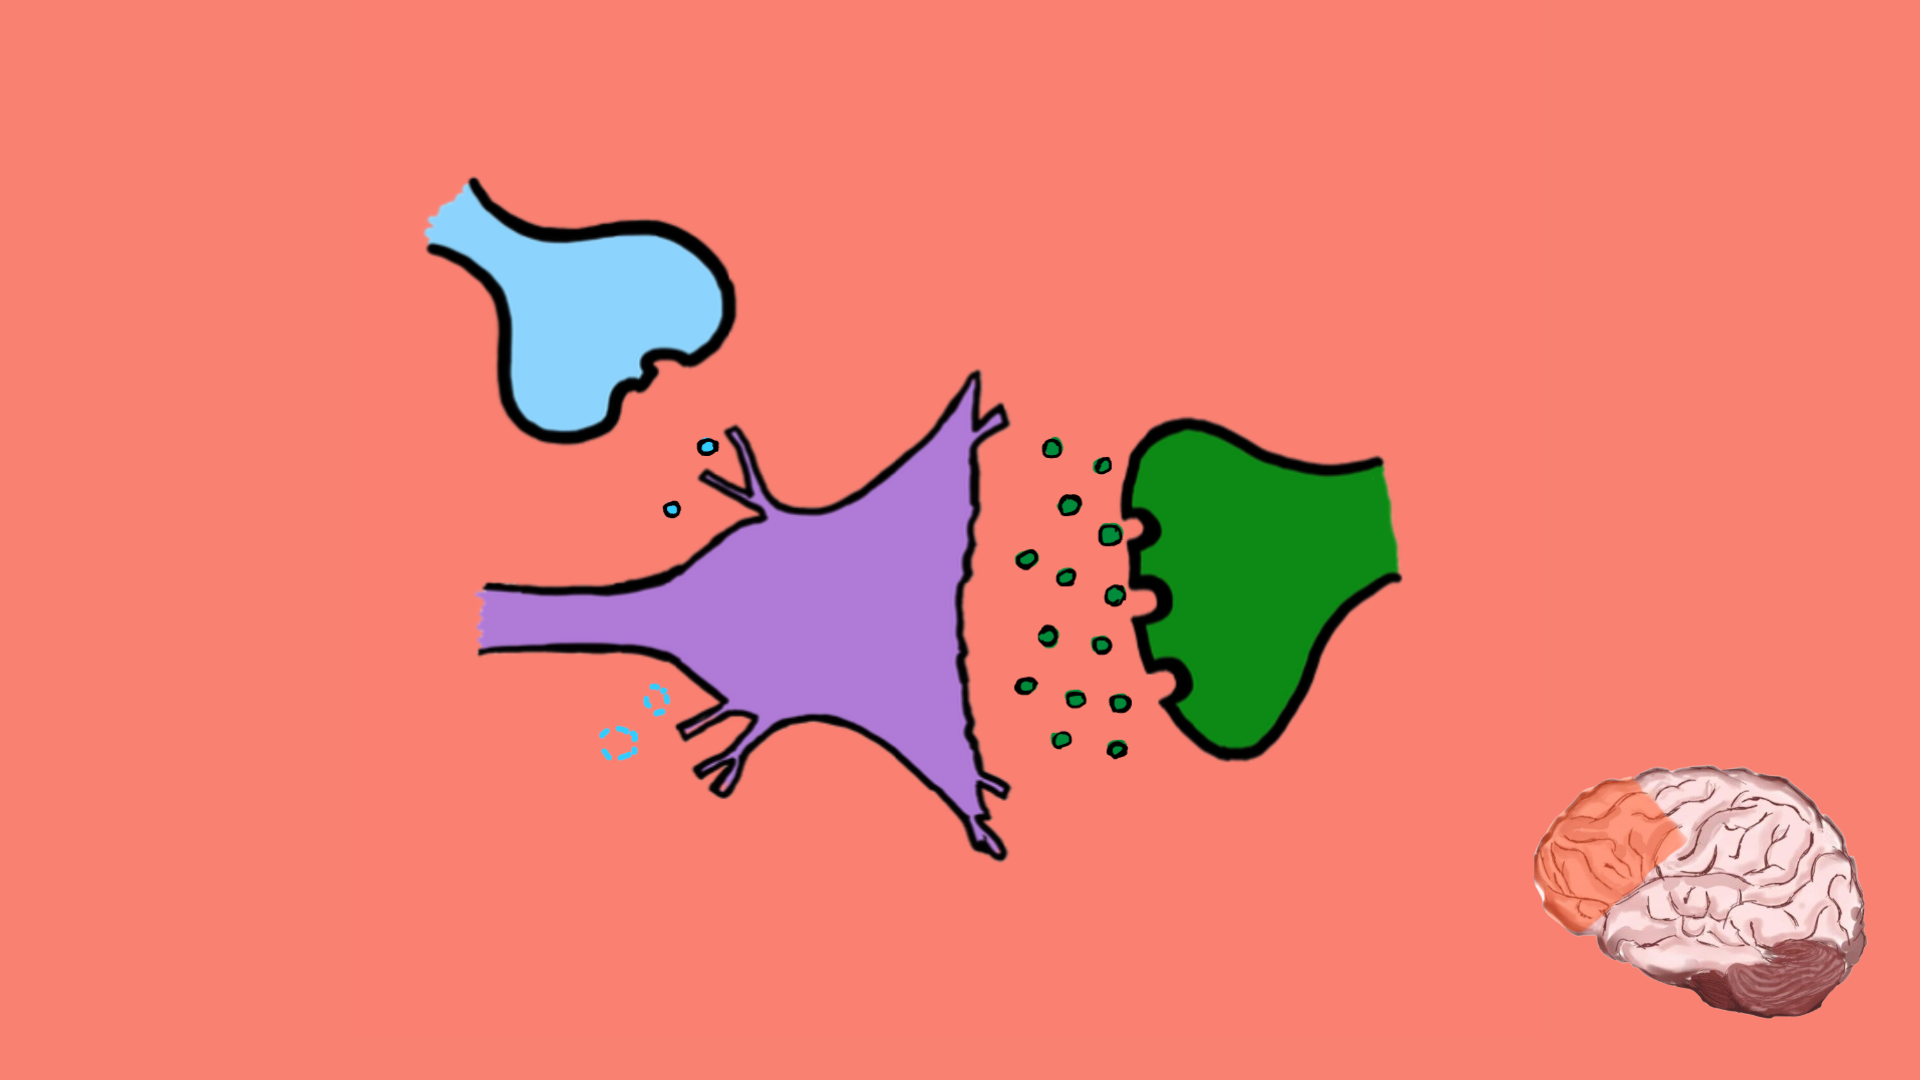
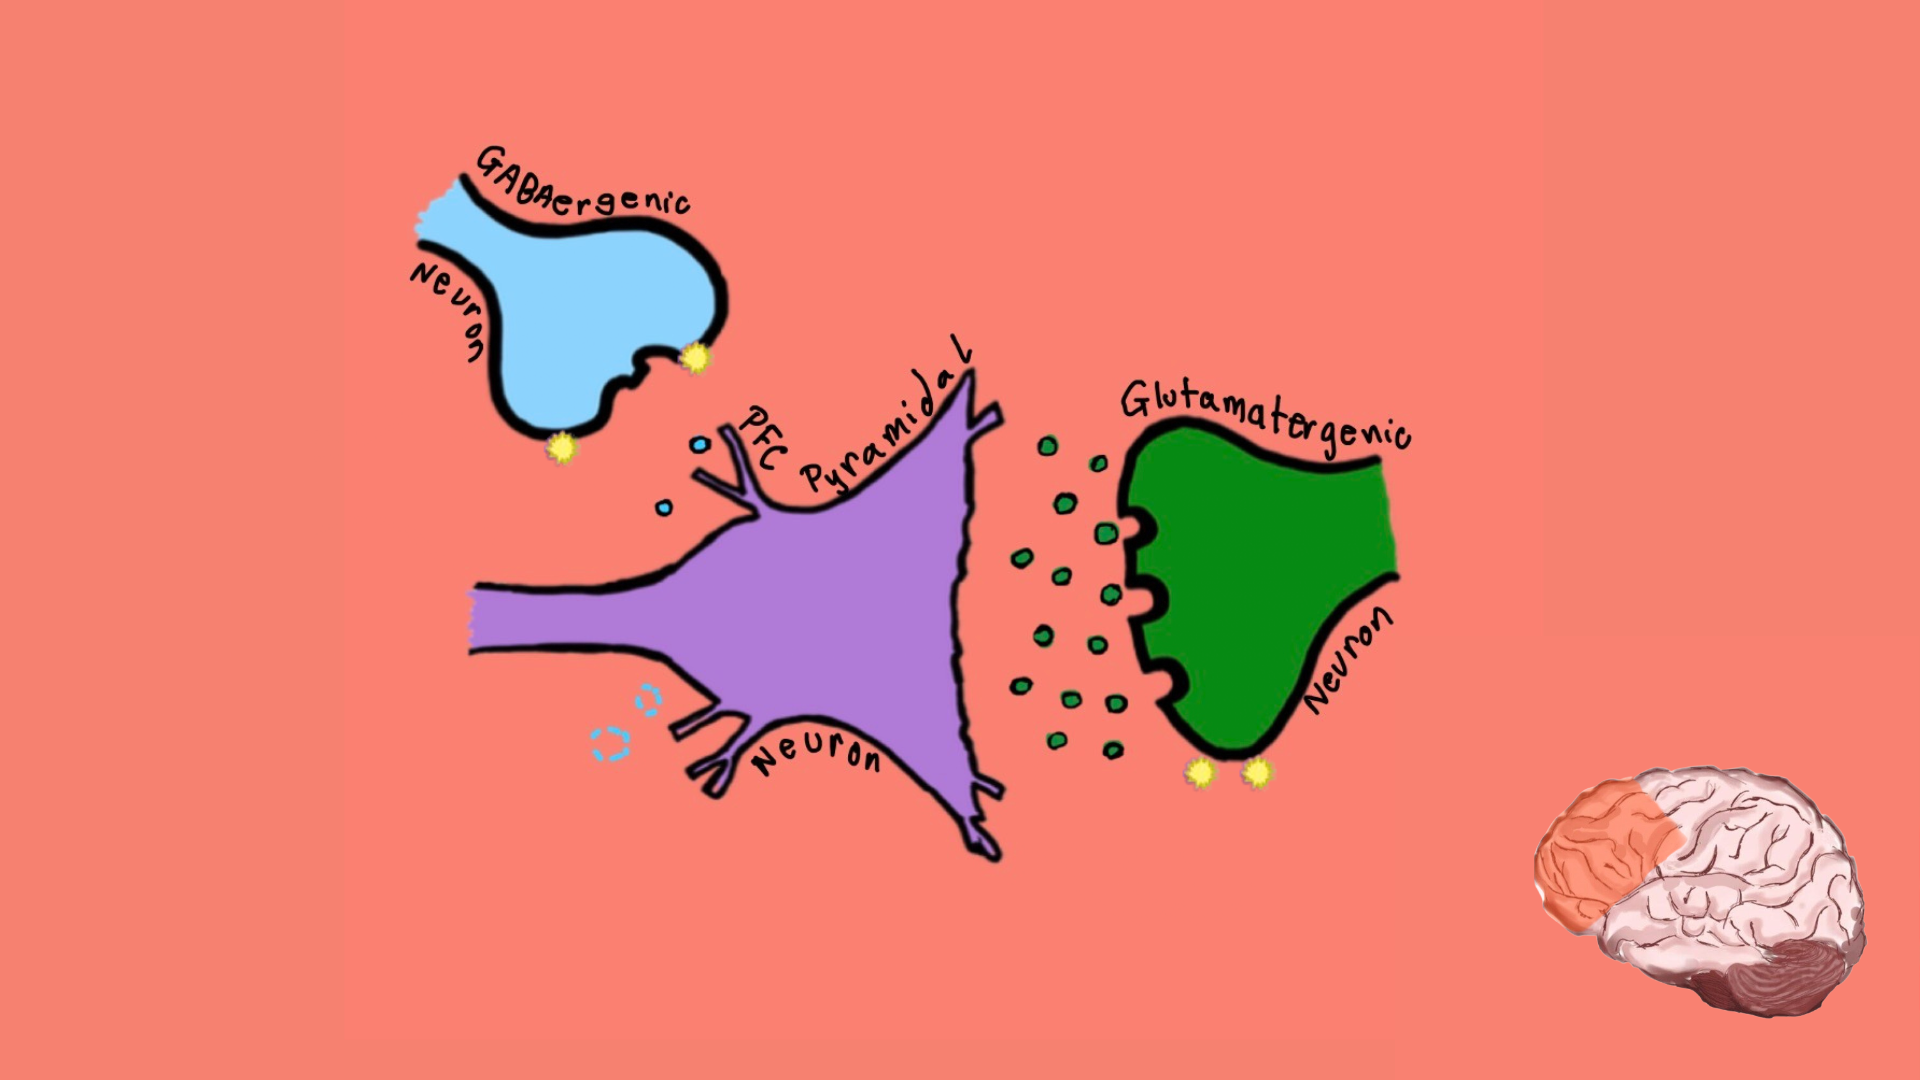
Rename to Brain Regions, remove overview paragraph, update labeled images

diff --git a/app/brain/page.tsx b/app/brain/page.tsx
@@ -6,7 +6,7 @@ import Image from "next/image";
 const REGIONS = [
   {
     id: "reward",
-    title: "Parts",
+    title: "Brain Regions",
     src: "/partsbrain.png",
     fit: "object-contain",
     stageIndex: 1,
@@ -231,7 +231,6 @@ export default function BrainInteractive() {
                     >
                       <div className="overflow-hidden">
                         <p className="text-sm font-semibold leading-6 text-black">{region.short}</p>
-                        <p className="mt-2 text-sm leading-6 text-black/70">{region.long}</p>
                       </div>
                     </div>
                   </button>
@@ -254,7 +253,7 @@ export default function BrainInteractive() {
                 Close
               </button>
             </div>
-            <p className="text-white/80 leading-8">{activeRegion.learnMore}</p>
+            <p className="text-white/80 leading-8">{activeRegion.long}</p>
           </div>
         </div>
       )}